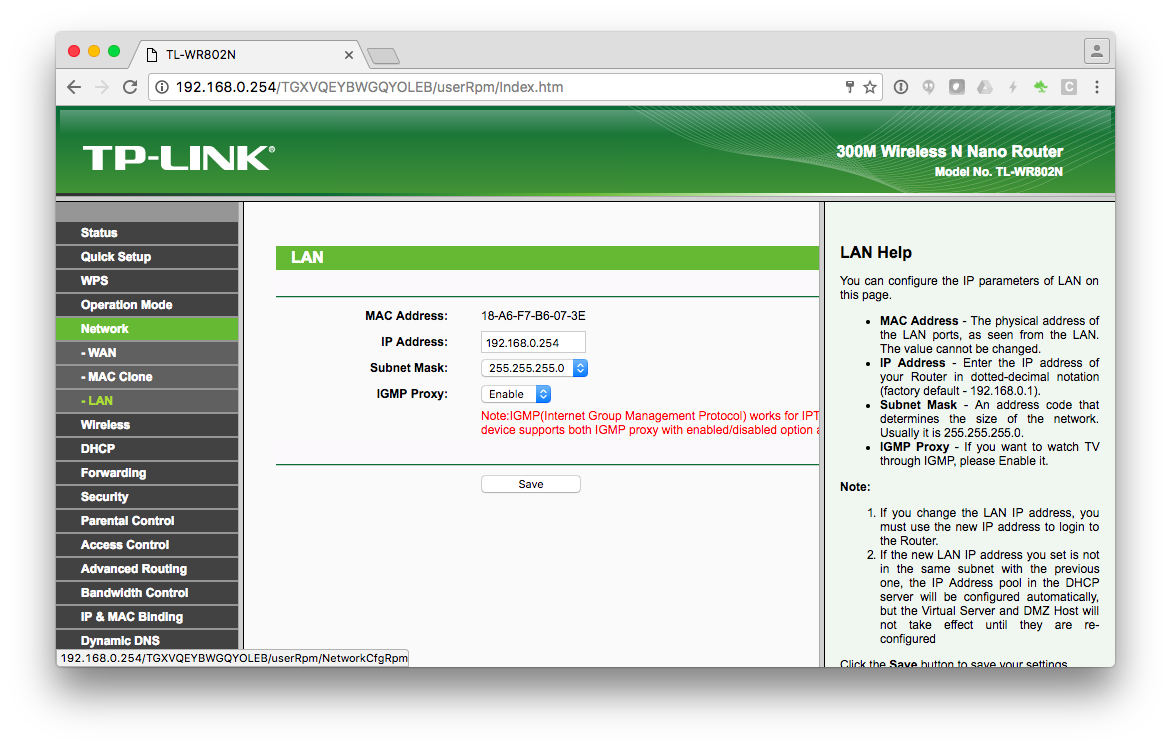
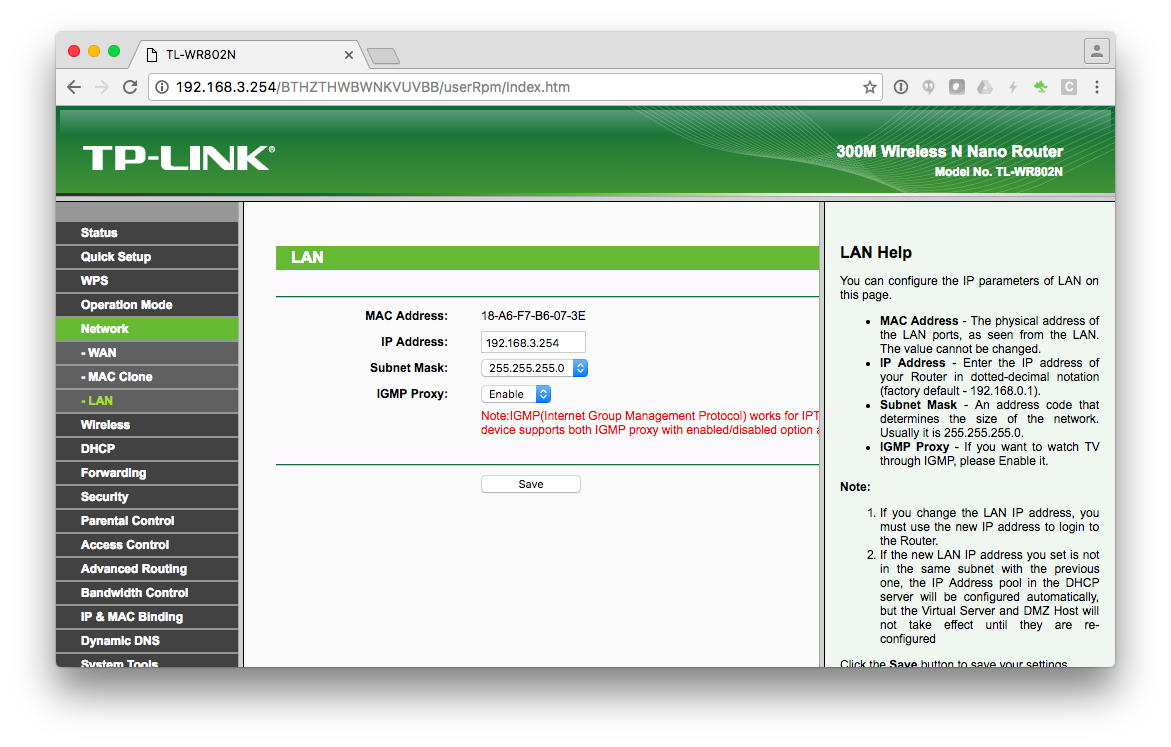
add mini router setup shortlist and update two screenshots

Changed region(s): [[0.0307, 0.8621, 0.3689, 0.8929], [0.2459, 0.0924, 0.4919, 0.1232]]

diff --git a/README.md b/README.md
@@ -279,6 +279,20 @@ https://github.com/DieterReuter/arm-docker-fixes/tree/master/001-fix-docker-mach
 **TODO**
 * s.h Rolands Pi Konfig
 * Bilder und Screenshots
+  * images/tp-link
+  * only open firewall ports 22 and 2376
+
+* reset router
+* login at 192.168.0.1
+* quick setup
+  * access mode
+  * name change and wlan password
+* change hostname
+* change router ip address to 192.168.x.254
+* change WLAN ip Range 192.168.x.1-199
+* set wlan timeout to 600
+* firewall disable
+* change admin password
 
 # Docker Swarming
 
